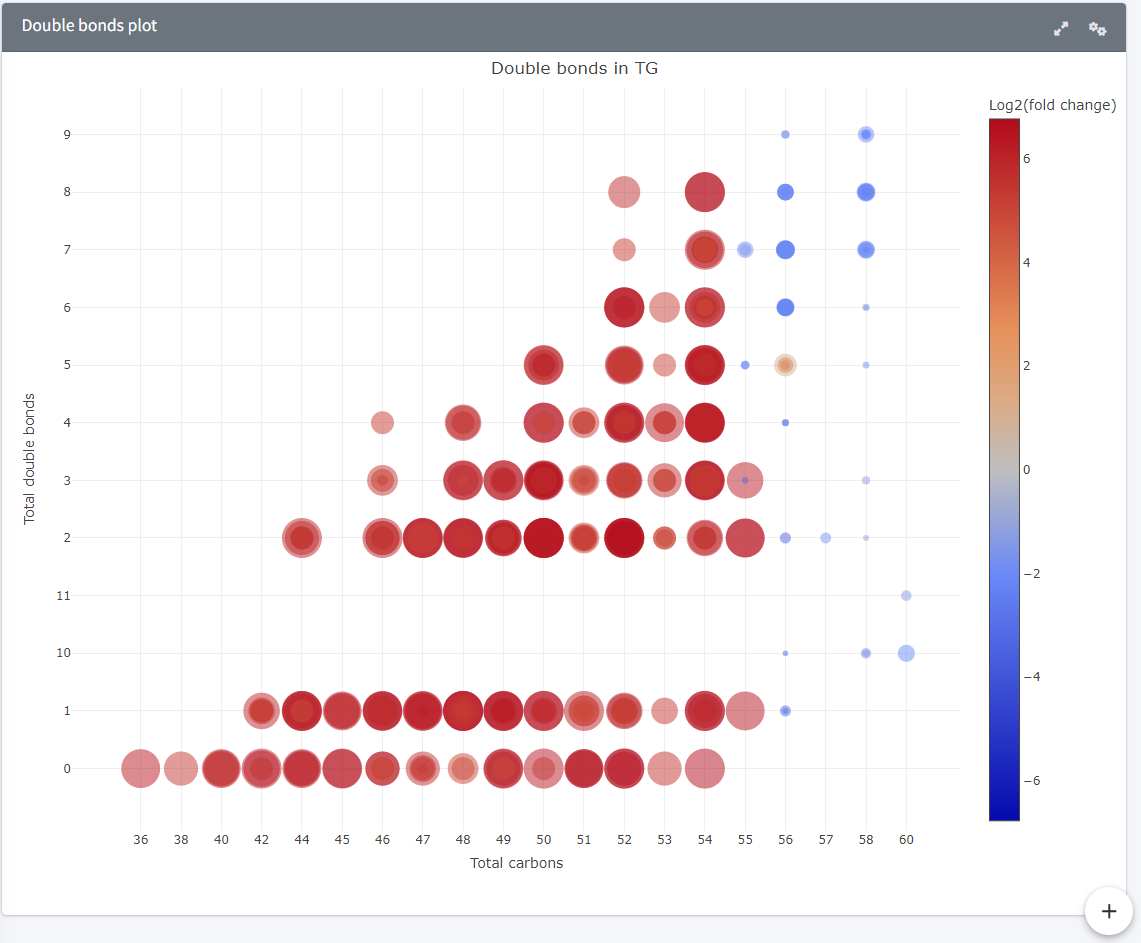
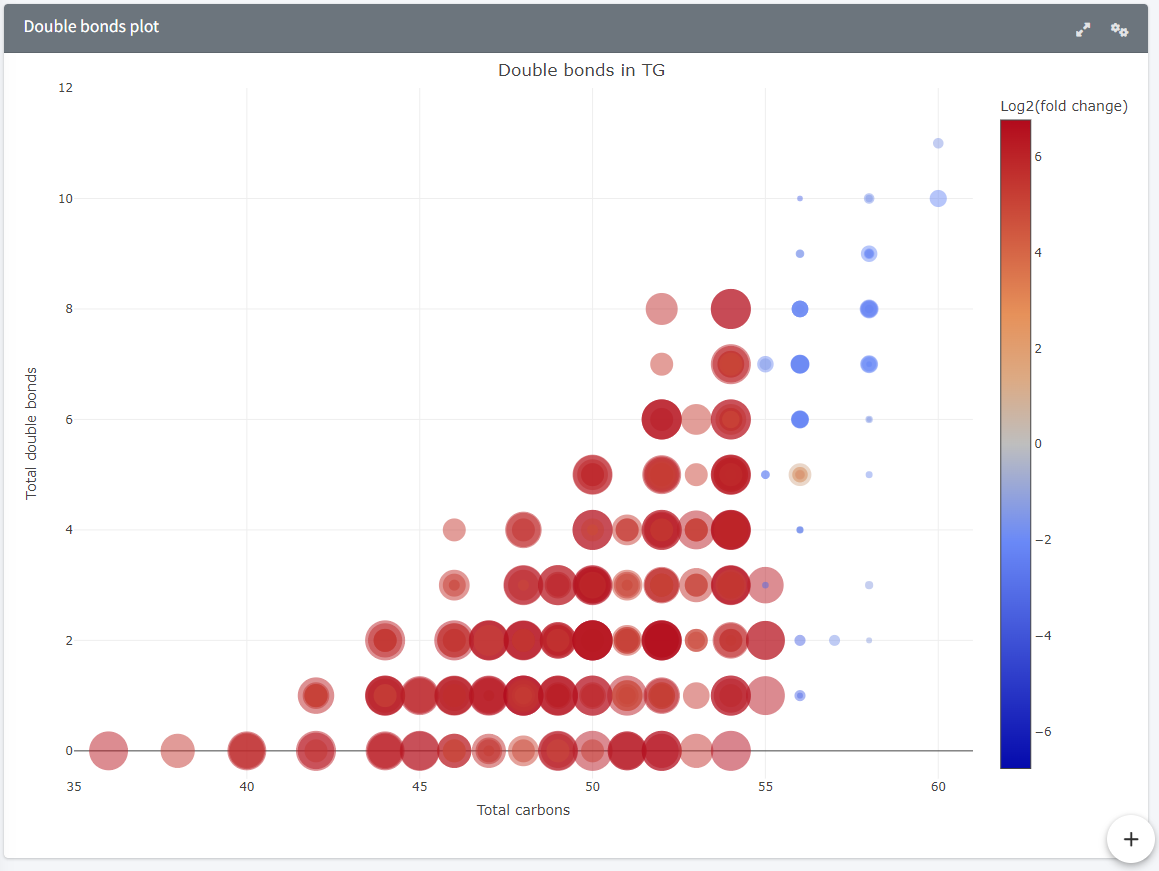
Table choice update. Added an option to select the input table for double bonds plot and volcano plot, among non normalised, class normalised and total normalised tables. Debugged some cases of medians being 0 and causing Inf, NAs and -Inf to pop up. Made double bonds plot axes static. Updated docum

diff --git a/help/data_visualisation_double_bond_plot.md b/help/data_visualisation_double_bond_plot.md
@@ -2,21 +2,41 @@ Double bond plot
 =======================
 ---
 ### Plot and interface
-Plot comparing two sample groups based on a lipid class, the double bond and carbon counts. The groups can be selected through the sidebar with "Select group column" (a column from the metadata table containing the groups to be compared). The comparison is done on a group-on-group basis: two groups must be selected in the "Select two groups to compare" slot.  
+Plot comparing two samples based on their lipid species.  
+1. **Select data table.**  
+Select the data to be used for comparison among the following: *Filtered data table*, *Class normalised data table*, *Total normalised data table*
+2. **Select group column.**  
+Select a column from the metadata table containing the groups to compare.  
+3. **Select two groups to compare.**  
+Select the groups to compare (2)  
+4. **Select lipid class.**  
+Select the lipid class to visualise the comparison.  
+5. **Coloring slider.**  
+Slider displaying a range of Log2(Fold change) values. Values inside the range will be excluded. Generally a -1 to +1 range is used.  
+6. **Size slider.**  
+Slider displaying a range of -Log10(BH(p-value)) values. Valudes inside the range will be kept.  
+7. **Download button.**  
+Downloads to CSV the *Double bonds table*.  
+
 The markers, representing individual lipid species, are coloured according to Log2(Fold change) in blue and red. This means markers coloured in red (>0) are detected in higher quantities in the second group, and markers coloured in blue (<0) are detected in higher quantities in the first group. Their size is relative to -Log10(BH(p-value)) meaning that the bigger the marker, the more significant that lipid is (low p-value).  
-Sliders allow a better exploration of the data:  
-- Coloring : Log2(Fold change) slider. Allows an exclusion of lipids with fold change derived values between a set range.  
-- Size : -Log10(BH(p-value)) slider. Allows the inclusion of lipids with p-value derived values between a set range.  
+Sliders allow a better exploration of the data, especially when markers are stacked. Hovering on the marker displays the associated values.  
 
 <img src="./img/visualise_lips_dbplot_1.png" width="49%">
 <img src="./img/visualise_lips_dbplot_2.png" width="49%">
 
 ### Data processing
+**Tables used:** {*Filtered data table*, *Class normalised data table*, *Total normalised data table*}, *Z-scored data table*, *Filtered feature table*.  
 Samples of the two groups are selected and for each feature in the *Filtered feature table*, p-values and fold changes are calculated.  
-The fold change is calculated using the median value of the second group divided by the median value of the first group, ignoring missing values. In case of groups containing only missing values: 
+  
+The fold change is calculated from the selected data table (one of *Filtered data table*, *Class normalised data table*, *Total normalised data table*) using the median value of the second group divided by the median value of the first group, ignoring missing values. In case of groups containing only missing values: 
 - Both groups contain only NAs, the fold change is set to 1 by default (low values in both groups).  
 - First group contains only NAs (denominator), the fold change is set to slightly above the maximum fold change, i.e. 1.01 x max fold change (high value divided by low value).  
 - Second group contains only NAs (numerator), the fold change is set to slighlty below the minimum fold change, i.e. 0.99 x min fold change (low value divided by high value).  
+  
+In the case of medians being 0:  
+- Denominator median is 0, fold change becomes Inf. Inf is set to slightly above the maximum fold change, i.e. 1.01 x max fold change (high value divided by low value).  
+- Nominator median is 0, fold change becomes 0. 0s are replaced to a value slighlty below the minimum fold change, i.e. 0.99 x min fold change (low value divided by high value).  
+- Both nominator and denominator are 0, fold change becomes NA. These are set to 1.  
 
 The p-value is calculated using a Wilcoxon test on the z-score normalised values (*Z-scored data table*) between group 1 and group 2 for a given feature. In case of groups containing only NAs:  
 - Both groups contain only NAs, the p-value is by default set to 1 (low values in both groups).  
@@ -24,4 +44,4 @@ The p-value is calculated using a Wilcoxon test on the z-score normalised values
 
 The p-value is then adjusted using the Benjamini-Hochberg procedure.  
 
-The *double bonds table* is then produced from the *Filtered feature table* (containing feature metadata) and adding log2(fold change) and -log10(BH(p-value)).    
+The *Double bonds table* is then produced from the *Filtered feature table* (containing feature metadata) and adding log2(fold change) and -log10(BH(p-value)).    

diff --git a/help/data_visualisation_volcano_plot.md b/help/data_visualisation_volcano_plot.md
@@ -2,8 +2,16 @@ Volcano plot
 =======================
 ---
 ### Plot and interface
-Plot used to visualise the differences between two sample groups. The groups can be selected through the sidebar with "Select group column" (a column from the metadata table containing the groups to be compared). The comparison is done on a group-on-group basis: two groups must be selected in the "Select two groups to compare" slot.  
-The data table produced for the volcano plot can be downloaded using the download button.  
+Plot used to visualise the differences in lipid composition between two sample groups. 
+1. **Select data table.**  
+Select the data to be used for comparison among the following: *Filtered data table*, *Class normalised data table*, *Total normalised data table*
+2. **Select group column.**  
+Select a column from the metadata table containing the groups to compare.  
+3. **Select two groups to compare.**  
+Select the groups to compare (2)  
+4. **Download button.**  
+Downloads to CSV the *Volcano table*.  
+
 The datapoints, representing the individual lipid species, are coloured according to their lipid class to easily spot class-level differences.  
 In volcano plots, data points situated on the top of the graph are more significant (low p-values) and those outside of the -1 to +1 range have large fold changes.  
 
@@ -11,11 +19,18 @@ In volcano plots, data points situated on the top of the graph are more signific
 <img src="./img/visualise_lips_volcano_plot_2.png" width="49%">
 
 ### Data processing
+**Tables used:** {*Filtered data table*, *Class normalised data table*, *Total normalised data table*}, *Z-scored data table*, *Filtered feature table*.  
 Samples of the two groups are selected and for each feature in the *Filtered feature table*, p-values and fold changes are calculated.  
-The fold change is calculated using the median value of the second group divided by the median value of the first group, ignoring missing values. In case of groups containing only missing values: 
+  
+The fold change is calculated from the selected data table (one of *Filtered data table*, *Class normalised data table*, *Total normalised data table*) using the median value of the second group divided by the median value of the first group, ignoring missing values. In case of groups containing only missing values: 
 - Both groups contain only NAs, the fold change is set to 1 by default (low values in both groups).  
 - First group contains only NAs (denominator), the fold change is set to slightly above the maximum fold change, i.e. 1.01 x max fold change (high value divided by low value).  
 - Second group contains only NAs (numerator), the fold change is set to slighlty below the minimum fold change, i.e. 0.99 x min fold change (low value divided by high value).  
+  
+In the case of medians being 0:  
+- Denominator median is 0, fold change becomes Inf. Inf is set to slightly above the maximum fold change, i.e. 1.01 x max fold change (high value divided by low value).  
+- Nominator median is 0, fold change becomes 0. 0s are replaced to a value slighlty below the minimum fold change, i.e. 0.99 x min fold change (low value divided by high value).  
+- Both nominator and denominator are 0, fold change becomes NA. These are set to 1.  
 
 The p-value is calculated using a Wilcoxon test on the z-score normalised values (*Z-scored data table*) between group 1 and group 2 for a given feature. In case of groups containing only NAs:  
 - Both groups contain only NAs, the p-value is by default set to 1 (low values in both groups).  
@@ -23,4 +38,4 @@ The p-value is calculated using a Wilcoxon test on the z-score normalised values
 
 The p-value is then adjusted using the Benjamini-Hochberg procedure.  
 
-The *volcano table* is then produced by calculating the log2(fold change) to be displayed on the x-axis, and -log10(BH(p-value)) to be displayed on the y-axis.  
+The *Volcano table* is then produced by calculating the log2(fold change) to be displayed on the x-axis, and -log10(BH(p-value)) to be displayed on the y-axis.  
